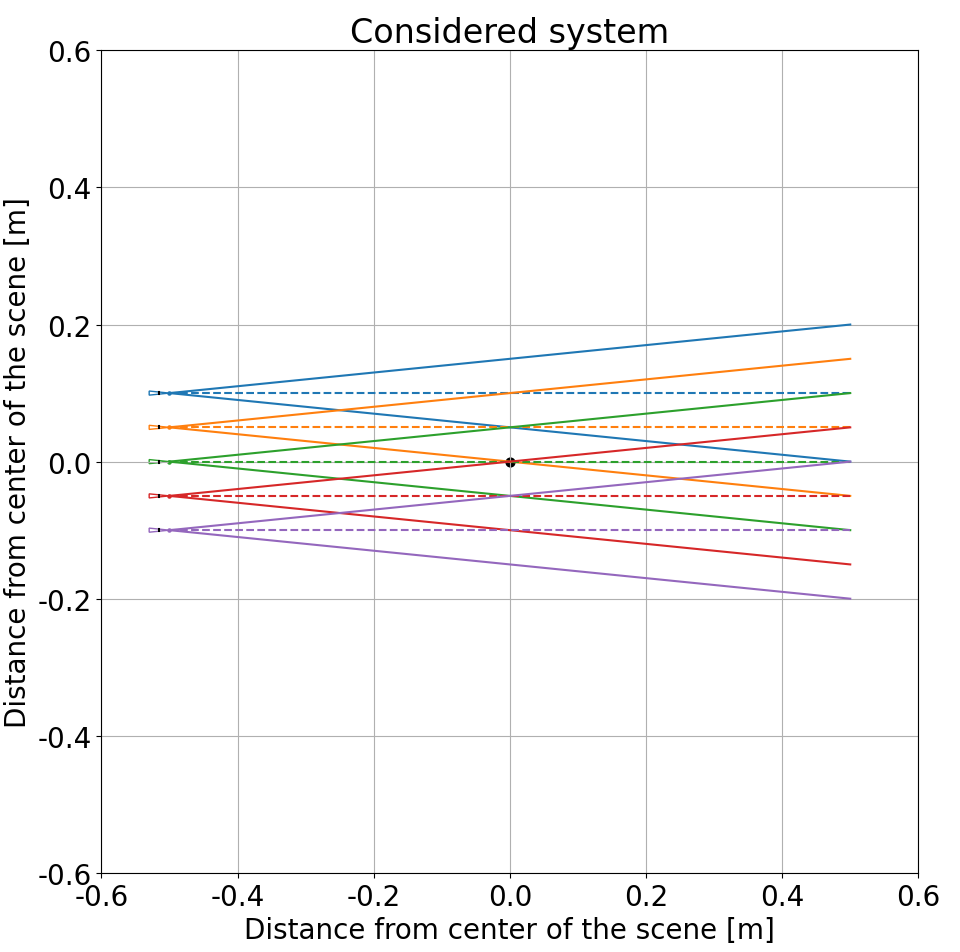
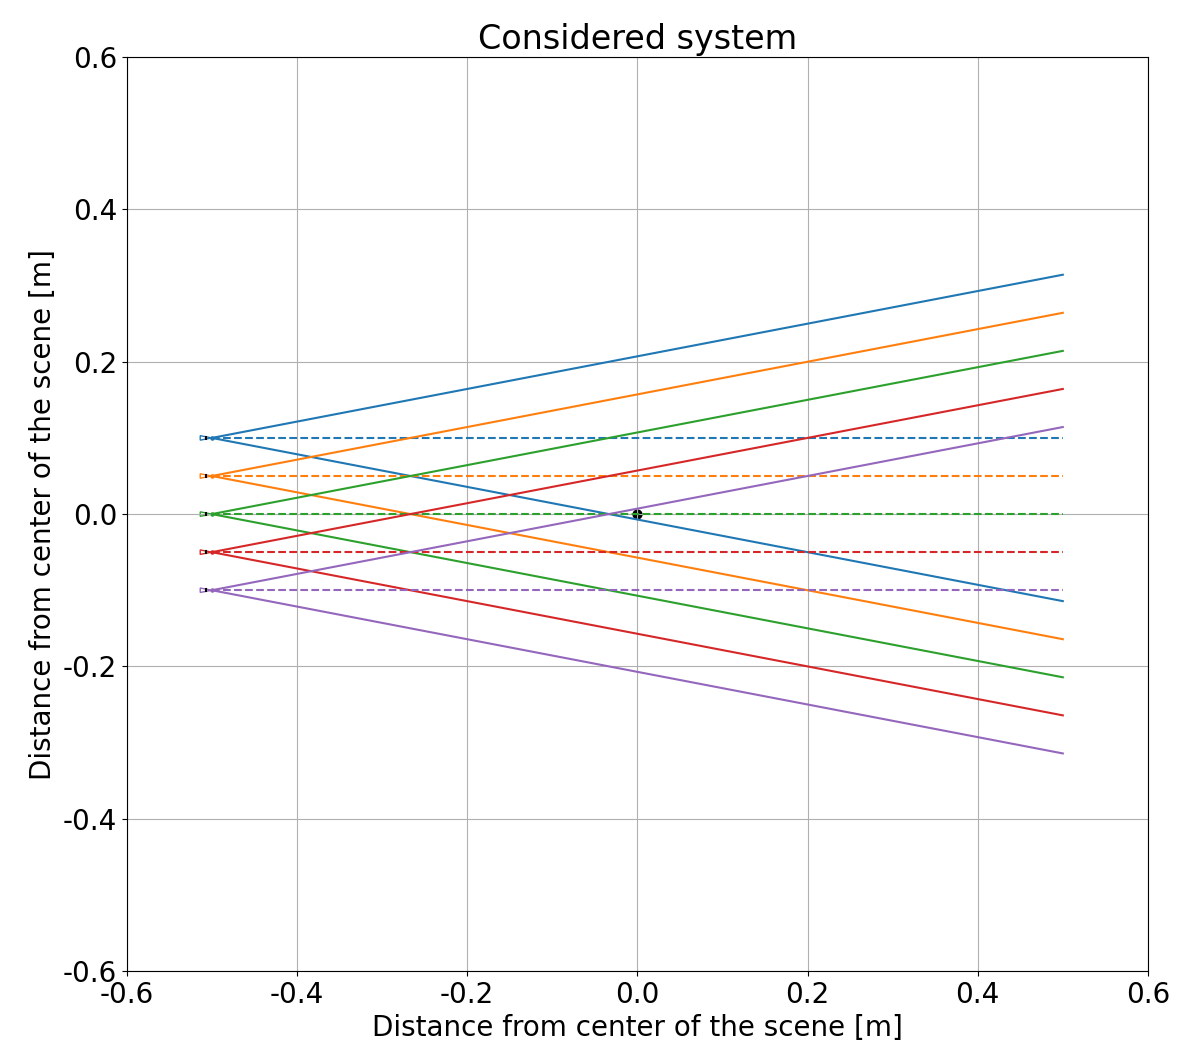
nowe, lepsze obrazki

diff --git a/README.md b/README.md
@@ -124,14 +124,6 @@ Example result:
 
 ___
 
-- **DrawIntersectionExample** - switch on generation of intersection example
-
-Example result:
-
-<img src="./doc/Figure_2.png" width="300"/>
-
-___
-
 - **DrawErrorMap** - switch on generation of error map
 
 Example result:
